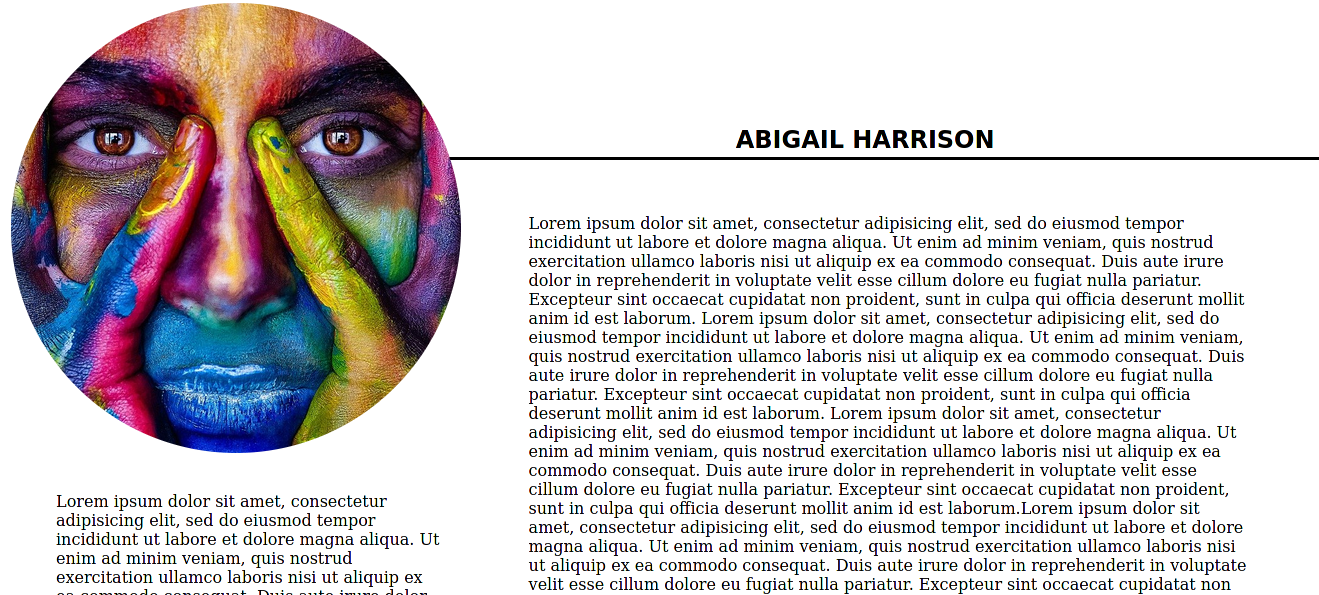
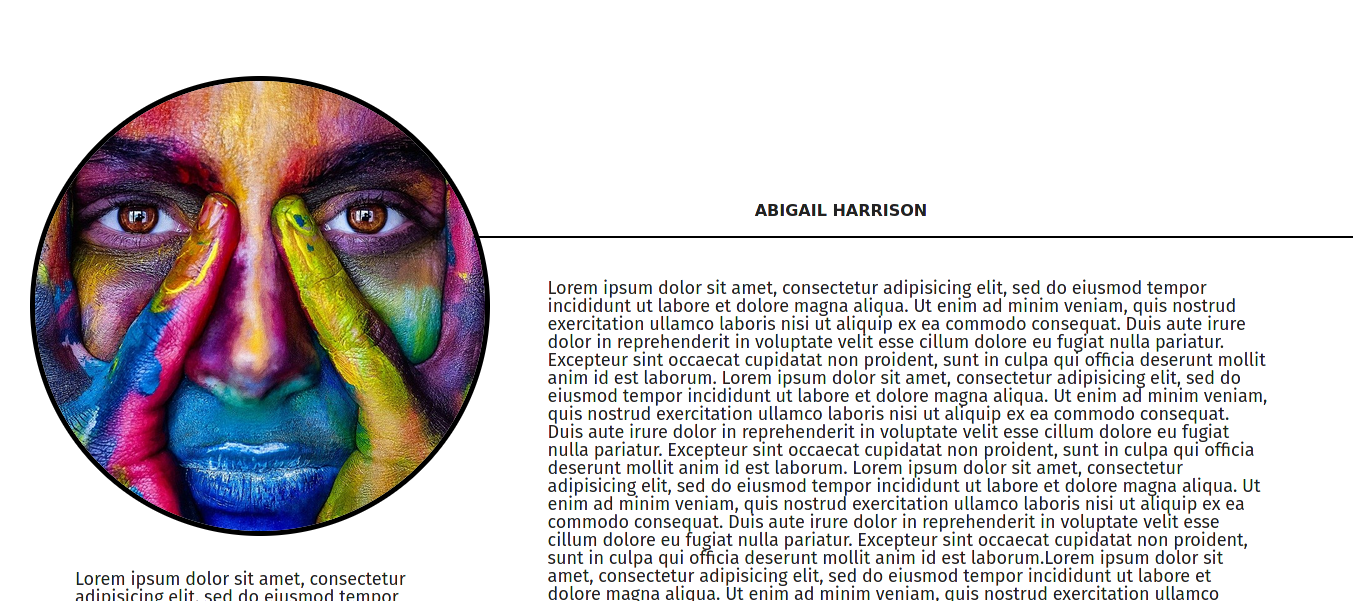
Modificações no Layout

diff --git a/css/style.css b/css/style.css
@@ -22,7 +22,11 @@ body {
       font-family: 'Ubuntu', sans-serif;
       font-size: 75px;
       margin: 130px 30px;
-      text-shadow: 10px -2px rgba(25,25,25,0.3);
+      text-shadow: 10px -2px rgba(25,25,25,0.1);
+      /*background: -webkit-linear-gradient(hsl(354, 71, 47), hsl(350, 9, 13));
+      -webkit-background-clip: text;
+      -webkit-background: linear-gradient(to left, hsl(354, 71, 47), hsl(350, 9, 13));
+      -webkit-text-fill-color: transparent;*/
     }
 
     .section {
@@ -32,12 +36,13 @@ body {
       margin-bottom: 10px;
     }
 
-    picture img {
+    .section picture img {
       border-radius: 50%;
       width: 450px; height: auto;
+      border: 5px solid #000;
     }
 
-    picture .line::before {
+    .section picture .line::before {
       display: block;
       position: relative;
       left: 30%; right: 0px;
@@ -47,7 +52,7 @@ body {
       background-color: #000;
     }
 
-    picture .line h2 {
+    .section picture .line h2 {
       display: inline-block;
       position: relative;
       left: 56%; right: auto;
@@ -57,7 +62,7 @@ body {
       text-transform: uppercase;
     }
 
-    .article-1 {
+    .section .article-1 {
       display: block;
       width: 720px; height: auto;
       position: relative;
@@ -69,7 +74,7 @@ body {
       font-weight: 500;
     }
 
-    .article-2 {
+    .section .article-2 {
       display:  inline-block;
       width: 390px; height: auto;
       position: relative;
@@ -86,7 +91,7 @@ body {
     }
 
     .figure-img-footer img {
-      width: 250px; height: auto;
+      width: 350px; height: auto;
       border-radius: 10px;
     }
 
@@ -95,26 +100,26 @@ body {
       height: 512px;
     }
 
-    .column-footer {
+    .column-foo {
       display: block;
       width: 800px; height: auto;
       padding: 10px auto;
       margin: auto auto auto 75px;
     }
 
-    .column-footer h4 {
+    .column-foo h4 {
       font-family: 'Ubuntu', sans-serif;
-      font-size: 30px;
+      font-size: 40px;
       text-align: left;
       margin: 20px auto;
     }
 
-    .column-footer p {
+    .column-foo p {
       font-family: 'Fira Sans', sans-serif;
       font-size: 18px;
     }
 
-    .footer-container {
+    .foo-container {
       display: flex;
       flex-direction: row;
       flex-wrap: wrap;

diff --git a/index.html b/index.html
@@ -98,11 +98,11 @@
     </div>
   </div>
   <div class="section">
-      <div class="footer-container">
+      <div class="foo-container">
         <figure class="figure-img-footer">
           <img src="https://cdn.pixabay.com/photo/2016/03/06/16/23/background-1240686_960_720.png" alt="figure red" />
         </figure>
-          <div class="column-footer">
+          <div class="column-foo">
             <h4>Leap Into LeaderShip 2020</h4>
             <p>Lorem ipsum dolor sit amet, consectetur adipisicing elit, sed do eiusmod
             tempor incididunt ut labore et dolore magna aliqua. Ut enim ad minim veniam,
